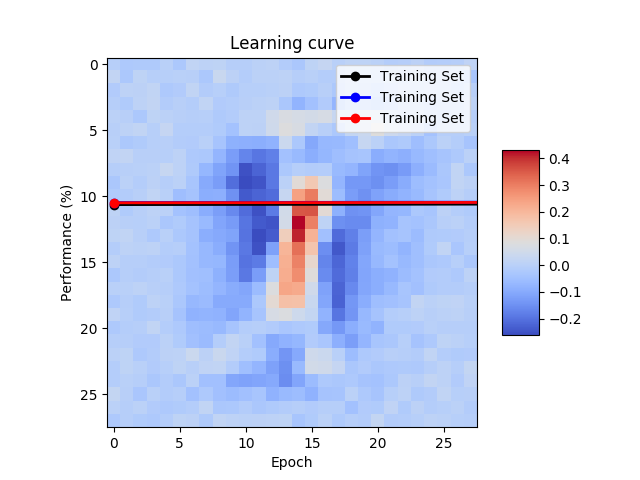
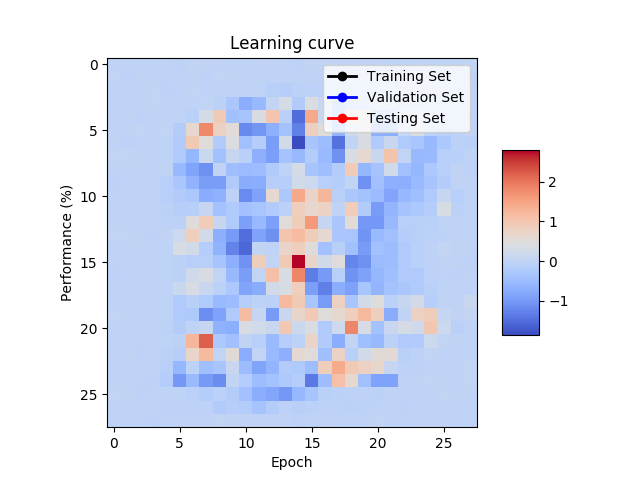
Farewell to part4??

diff --git a/digits.py b/digits.py
@@ -80,59 +80,63 @@ def part3():
 ################################################################################
 # Part 4
 ################################################################################
-def part4():
-    #Load the MNIST digit data
-    M = loadmat("mnist_all.mat")
+# def part4():
+#Load the MNIST digit data
+M = loadmat("mnist_all.mat")
 
-    # Set sizes for training, validation and testing sets for each digit
-    training_size = 4000
-    validation_size = 500
-    test_size = 500
+# Set sizes for training, validation and testing sets for each digit
+training_size = 400
+validation_size = 20
+test_size = 20
 
-    # Make the three sets
-    train_label = np.zeros((10, training_size * 10))
-    validation_label = np.zeros((10, validation_size * 10))
-    test_label = np.zeros((10, test_size * 10))
+# Make the three sets
+train_label = np.zeros((10, training_size * 10))
+validation_label = np.zeros((10, validation_size * 10))
+test_label = np.zeros((10, test_size * 10))
 
-    # For digit '0'
-    training_set = M["train0"][0:training_size].reshape((28*28, training_size))
-    validation_set = M["train0"][training_size:training_size+validation_size].reshape((28*28, validation_size))
-    test_set = M["train0"][training_size + validation_size:training_size+validation_size+test_size].reshape((28*28, test_size))
+# For digit '0'
+training_set = M["train0"][0:training_size]
+validation_set = M["train0"][training_size:training_size+validation_size]
+test_set = M["train0"][training_size+validation_size:training_size+validation_size+test_size]
 
-    train_label[0, 0:training_size] = 1
-    validation_label[0, 0:validation_size] = 1
-    test_label[0, 0:test_size] = 1
+train_label[0, 0:training_size] = 1
+validation_label[0, 0:validation_size] = 1
+test_label[0, 0:test_size] = 1
 
-    # For the rest of the digits
-    for i in range(1, 10):
-        training_set = hstack((training_set, M["train"+str(i)][0:training_size].reshape((28*28, training_size))))
-        validation_set = hstack((validation_set, M["train"+str(i)][training_size:training_size+validation_size].reshape((28*28, validation_size))))
-        test_set = hstack((test_set, M["train"+str(i)][training_size + validation_size:training_size+validation_size+test_size].reshape((28*28, test_size))))
+# For the rest of the digits
+for i in range(1, 10):
+    training_set = vstack((training_set, M["train"+str(i)][0:training_size]))
+    validation_set = vstack((validation_set, M["train"+str(i)][training_size:training_size+validation_size]))
+    test_set = vstack((test_set, M["train"+str(i)][training_size+validation_size:training_size+validation_size+test_size]))
 
-        train_label[i, i*training_size:i*training_size+training_size] = 1
-        validation_label[i, i*validation_size:i*validation_size+validation_size] = 1
-        test_label[i, i*test_size:i*test_size+test_size] = 1
+    train_label[i, i*training_size:i*training_size+training_size] = 1
+    validation_label[i, i*validation_size:i*validation_size+validation_size] = 1
+    test_label[i, i*test_size:i*test_size+test_size] = 1
 
-    training_set = training_set/255.0
-    validation_set = validation_set/255.0
-    test_set = test_set/255.0    
+training_set = training_set.T
+validation_set = validation_set.T
+test_set = test_set.T
 
-    # Load weights and biases
-    snapshot = cPickle.load(open("snapshot50.pkl"))
-    W0 = snapshot["W0"]
-    b0 = snapshot["b0"].reshape((300,1))
-    W1 = snapshot["W1"]
-    b1 = snapshot["b1"].reshape((10,1))
+training_set = training_set/255.0
+validation_set = validation_set/255.0
+test_set = test_set/255.0
 
-    init_W = np.dot(W0, W1)
-    init_b = b1
+# Load weights and biases
+snapshot = cPickle.load(open("snapshot50.pkl"))
+W0 = snapshot["W0"]
+b0 = snapshot["b0"].reshape((300,1))
+W1 = snapshot["W1"]
+b1 = snapshot["b1"].reshape((10,1))
 
-    alpha = 0.0001
+init_W = np.dot(W0, W1)
+init_b = b1
 
-    W, b, epoch, train_perf, validation_perf, test_perf = train_nn(compute_simple_network, gradient_simple_network_w, gradient_simple_network_b, training_set, train_label, validation_set, validation_label, test_set, test_label, init_W, init_b, alpha)
+alpha = 0.001
 
-    plot_learning_curves(epoch, train_perf, validation_perf, test_perf)
-    plot_digit_weights(W)
+W, b, epoch, train_perf, validation_perf, test_perf = train_nn(compute_simple_network, gradient_simple_network_w, gradient_simple_network_b, training_set, train_label, validation_set, validation_label, test_set, test_label, init_W, init_b, alpha)
+
+plot_learning_curves(epoch, train_perf, validation_perf, test_perf)
+plot_digit_weights(W)
 
 ################################################################################
 # Part 5
@@ -152,6 +156,6 @@ def part6():
 # part1()
 # part2()
 # part3()
-part4()
+# part4()
 # part5()
 # part6()
